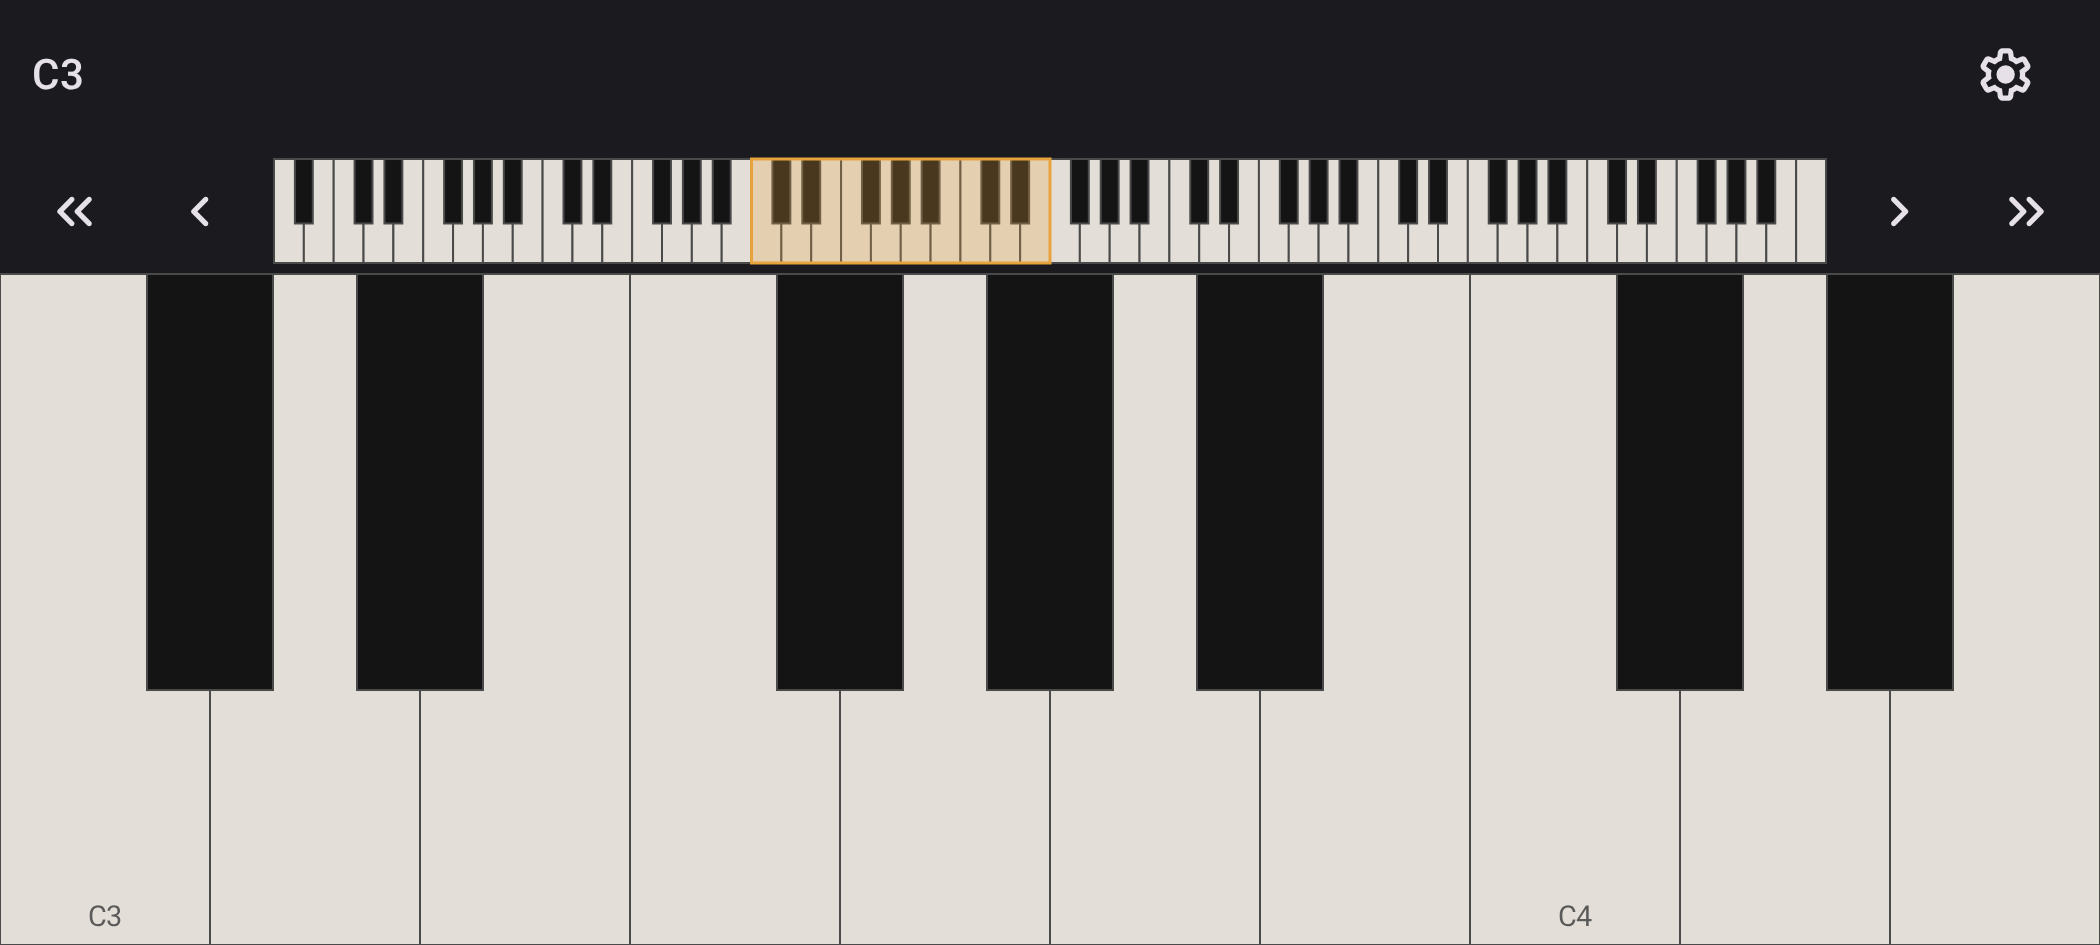
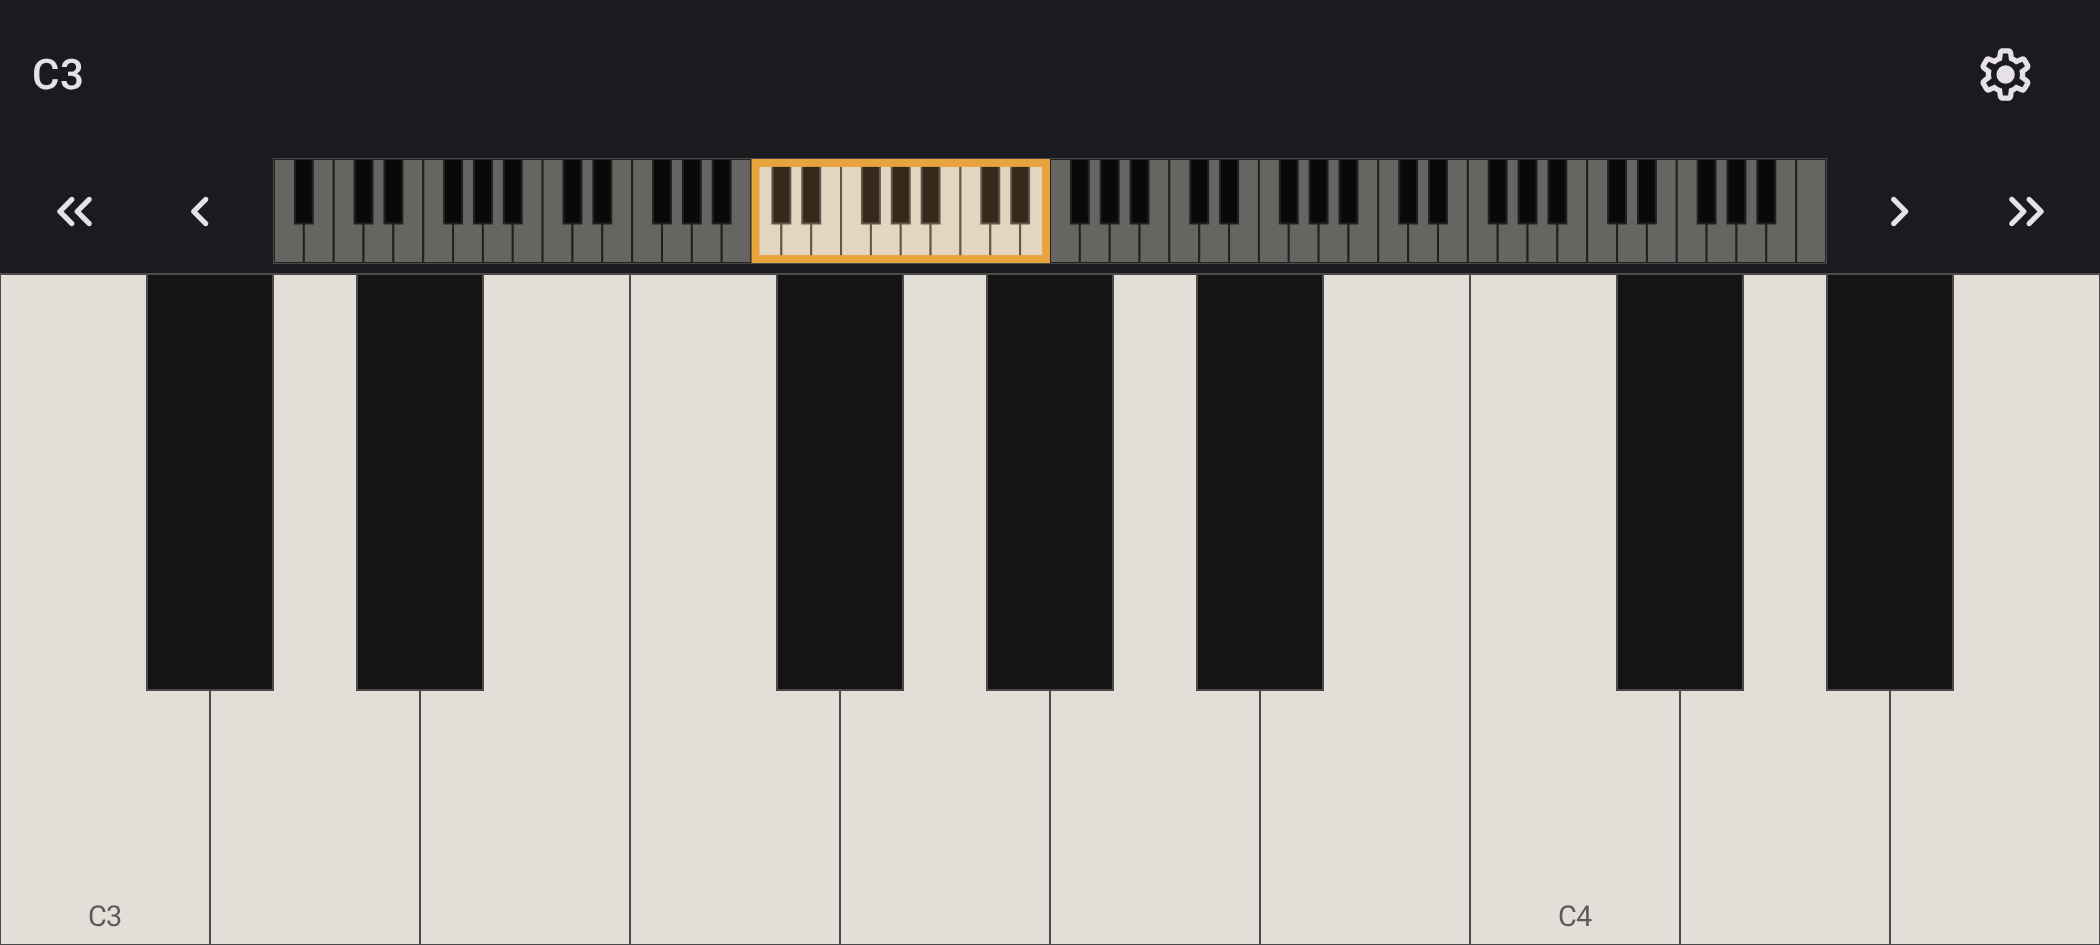
docs: refresh README screenshots
Sync the screenshot mock overview with the real one (outside scrim, inset border)
and render settings in portrait.

Changed region(s): [[0.1238, 0.1534, 0.8667, 0.3069]]

diff --git a/android/tools/screenshot-mocks/src/main/kotlin/dev/thomas_kiljanczyk/openpiano/tools/screenshotmocks/MockKeyboardScreen.kt b/android/tools/screenshot-mocks/src/main/kotlin/dev/thomas_kiljanczyk/openpiano/tools/screenshotmocks/MockKeyboardScreen.kt
@@ -44,8 +44,9 @@ private const val OVERVIEW_HEIGHT_DP = 48
 private const val LABEL_TEXT_SIZE_SP = 11
 private const val LABEL_BOTTOM_PADDING = 12f
 private const val KEY_BORDER_WIDTH = 2f
-private const val VIEWPORT_FILL_ALPHA = 0.25f
-private const val VIEWPORT_BORDER_WIDTH = 3f
+private const val VIEWPORT_FILL_ALPHA = 0.15f
+private const val OUTSIDE_SCRIM_ALPHA = 0.55f
+private val ViewportBorderWidth = 3.dp
 
 val MOCK_LOWEST_NOTE = Note.firstOfOctave(3)
 const val MOCK_VISIBLE_WHITE_KEYS = 10
@@ -55,6 +56,7 @@ const val MOCK_VISIBLE_WHITE_KEYS = 10
 fun MockKeyboardScreen(lowestNote: Int, whiteKeyCount: Int, labelMode: KeyLabelMode) {
     val keyColors = LocalKeyColors.current
     val viewportColor = MaterialTheme.colorScheme.primary
+    val scrimColor = MaterialTheme.colorScheme.scrim
     val textMeasurer = rememberTextMeasurer()
     Column(modifier = Modifier.fillMaxSize()) {
         Row(
@@ -82,7 +84,7 @@ fun MockKeyboardScreen(lowestNote: Int, whiteKeyCount: Int, labelMode: KeyLabelM
                 Icon(ImageVector.vectorResource(R.drawable.keyboard_arrow_left), contentDescription = null)
             }
             Canvas(modifier = Modifier.weight(1f).fillMaxSize().padding(horizontal = 4.dp, vertical = 4.dp)) {
-                drawMockOverview(lowestNote, whiteKeyCount, keyColors, viewportColor)
+                drawMockOverview(lowestNote, whiteKeyCount, keyColors, viewportColor, scrimColor)
             }
             IconButton(onClick = {}) {
                 Icon(ImageVector.vectorResource(R.drawable.keyboard_arrow_right), contentDescription = null)
@@ -120,6 +122,7 @@ private fun DrawScope.drawMockOverview(
     visibleWhiteKeys: Int,
     keyColors: KeyColors,
     viewportColor: Color,
+    scrimColor: Color,
 ) {
     if (size.width <= 0f || size.height <= 0f) return
     val layout = KeyboardLayout(Piano.LOWEST_MIDI, Piano.whiteKeyCount, size.width, size.height)
@@ -128,14 +131,16 @@ private fun DrawScope.drawMockOverview(
     val first = Piano.whiteKeyIndexOf(lowestNote)
     val last = (first + visibleWhiteKeys - 1).coerceAtMost(layout.whiteKeys.lastIndex)
     val left = layout.whiteKeys[first].left
-    val viewport = Size(layout.whiteKeys[last].right - left, size.height)
-    drawRect(color = viewportColor.copy(alpha = VIEWPORT_FILL_ALPHA), topLeft = Offset(left, 0f), size = viewport)
-    drawRect(
-        color = viewportColor,
-        topLeft = Offset(left, 0f),
-        size = viewport,
-        style = Stroke(width = VIEWPORT_BORDER_WIDTH),
-    )
+    val right = layout.whiteKeys[last].right
+    val scrim = scrimColor.copy(alpha = OUTSIDE_SCRIM_ALPHA)
+    drawRect(color = scrim, size = Size(left, size.height))
+    drawRect(color = scrim, topLeft = Offset(right, 0f), size = Size(size.width - right, size.height))
+    val stroke = ViewportBorderWidth.toPx()
+    val inset = stroke / 2
+    val topLeft = Offset(left + inset, inset)
+    val viewport = Size(right - left - stroke, size.height - stroke)
+    drawRect(color = viewportColor.copy(alpha = VIEWPORT_FILL_ALPHA), topLeft = topLeft, size = viewport)
+    drawRect(color = viewportColor, topLeft = topLeft, size = viewport, style = Stroke(width = stroke))
 }
 
 private fun DrawScope.drawMockKey(key: KeyRect, fill: Color, colors: KeyColors) {

diff --git a/android/tools/readme-screenshots/src/screenshotTest/kotlin/dev/thomas_kiljanczyk/openpiano/tools/readmescreenshots/SettingsScreenshots.kt b/android/tools/readme-screenshots/src/screenshotTest/kotlin/dev/thomas_kiljanczyk/openpiano/tools/readmescreenshots/SettingsScreenshots.kt
@@ -9,8 +9,8 @@ import dev.thomas_kiljanczyk.openpiano.feature.settings.impl.domain.LanguageOpti
 import dev.thomas_kiljanczyk.openpiano.feature.settings.impl.ui.SettingsScreen
 import dev.thomas_kiljanczyk.openpiano.feature.settings.impl.ui.SettingsUiState
 
-private const val SCREEN_WIDTH_DP = 800
-private const val SCREEN_HEIGHT_DP = 480
+private const val SCREEN_WIDTH_DP = 405
+private const val SCREEN_HEIGHT_DP = 720
 
 @PreviewTest
 @Preview(widthDp = SCREEN_WIDTH_DP, heightDp = SCREEN_HEIGHT_DP)

diff --git a/android/README.md b/android/README.md
@@ -33,7 +33,7 @@ so you can jump anywhere across the full 88-key range.
 Key labels, visible key count, reverb, MIDI output, and touch hit-testing mode (point vs. area,
 with a configurable overlap threshold) are all user-adjustable.
 
-<img src="../docs/images/OpenPiano-settings.png" alt="Settings" height="480">
+<img src="../docs/images/OpenPiano-settings.png" alt="Settings" height="640">
 
 ## Build
 
